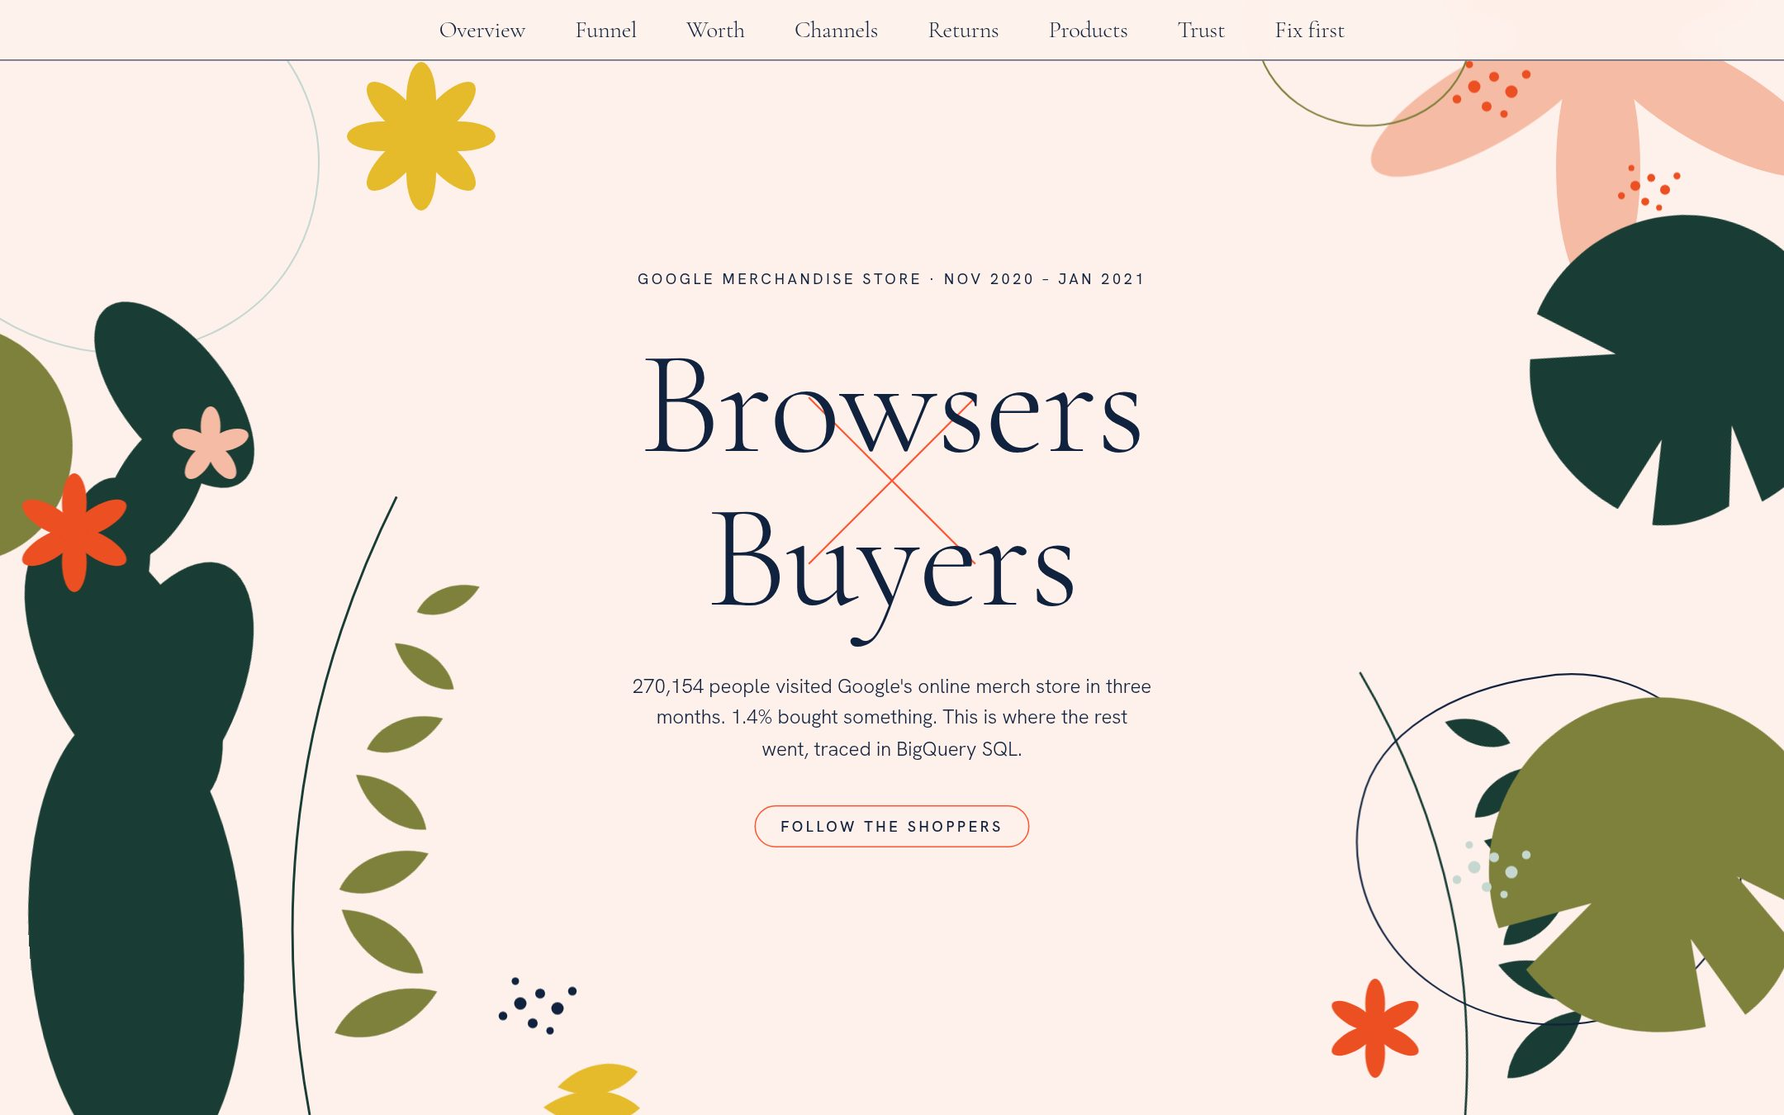
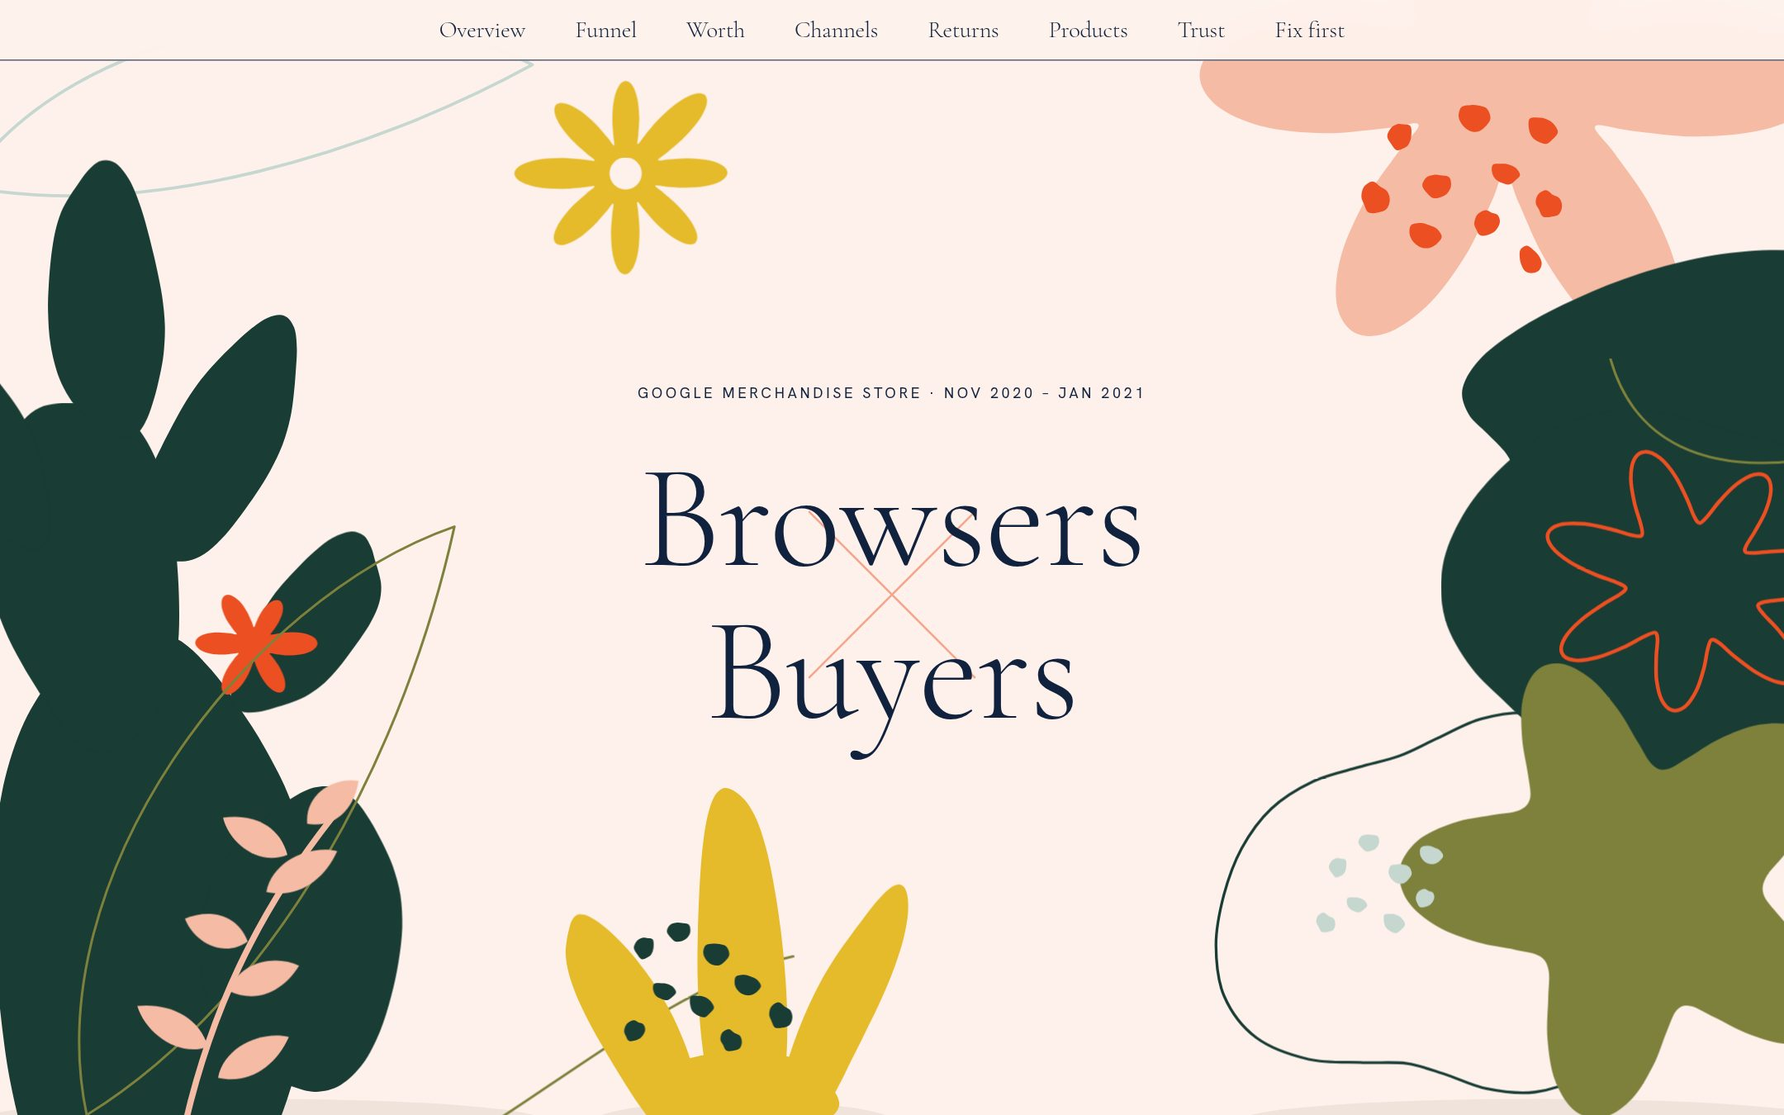
Redraw the hero garden with hand-cut shapes; simpler hero

diff --git a/app/components/Botanical.tsx b/app/components/Botanical.tsx
@@ -1,121 +1,101 @@
 /**
- * Flat, hand-cut botanical shapes in the illustration palette: cactus pads, leaves, star flowers,
- * dot clusters and thin outline blobs. Every number is fixed (no randomness), so the server and the
- * browser draw the same garden.
+ * Flat, hand-cut botanical shapes in the illustration palette. Outlines come from a small generator:
+ * points around an ellipse, nudged in and out by a few fixed sine waves (the "hand-cut" wobble),
+ * optionally carved into lobes or petals, then joined with smooth curves. Everything is fixed (no
+ * randomness), so the server and the browser draw the same garden.
  */
-const C = { forest: "#193c35", olive: "#7e813c", mustard: "#e5ba2b", ember: "#ec4f22", sage: "#c6d7d0", peach: "#f6bba4", ink: "#11223f" };
+const C = { forest: "#193c35", olive: "#7e813c", mustard: "#e5ba2b", ember: "#ec4f22", sage: "#c6d7d0", peach: "#f6bba4", ink: "#11223f", ground: "#efe3dc" };
 
-type P = { x: number; y: number; s?: number; r?: number; fill?: string; d?: number };
-const t = ({ x, y, s = 1, r = 0 }: P) => `translate(${x} ${y}) rotate(${r}) scale(${s})`;
+type Shape = { cx: number; cy: number; rx: number; ry: number; rot?: number; seed?: number; wob?: number; lobes?: number; lobeDepth?: number; petals?: number; n?: number };
 
-/** A long leaf pointing right from the origin. */
-const LEAF = "M0 0 C28 -26 78 -30 120 0 C78 30 28 26 0 0Z";
-/** An organic blob, about 200 x 180. */
-const BLOB = "M96 4 C150 -6 204 38 198 98 C192 160 132 190 78 176 C22 162 -6 112 6 66 C14 32 52 10 96 4Z";
-/** A notched, monstera-like leaf, about 220 x 220. */
-const NOTCHED = "M110 0 C170 0 220 50 220 110 C220 140 205 168 182 188 L150 140 L160 196 C145 210 128 218 110 220 L104 160 L84 214 C40 200 8 168 2 124 L60 108 L0 92 C10 40 56 0 110 0Z";
+const r1 = (v: number) => Math.round(v * 10) / 10;
 
-export function Leaf({ fill = C.peach, ...p }: P) {
-  return <path className="grow" d={LEAF} fill={fill} transform={t(p)} style={{ animationDelay: `${p.d ?? 0}s` }} />;
+/** A closed, smooth, slightly irregular outline (Catmull-Rom through the points, as cubic Béziers). */
+function outline({ cx, cy, rx, ry, rot = 0, seed = 1, wob = 0.08, lobes = 0, lobeDepth = 0, petals = 0, n }: Shape): string {
+  const count = n ?? Math.max(28, (lobes || petals) * 10);
+  const a = (rot * Math.PI) / 180;
+  const pts: [number, number][] = [];
+  for (let i = 0; i < count; i++) {
+    const th = (2 * Math.PI * i) / count;
+    let r = 1 + wob * (0.6 * Math.sin(2 * th + seed) + 0.4 * Math.sin(3 * th + seed * 1.7) + 0.25 * Math.sin(5 * th + seed * 2.3));
+    if (lobes) r *= 1 - lobeDepth * (0.5 - 0.5 * Math.cos(lobes * th + seed));            // notches between lobes
+    if (petals) r *= 0.32 + 0.68 * Math.pow(Math.abs(Math.cos((petals * th) / 2)), 1.6);   // long rounded petals
+    const x = rx * r * Math.cos(th), y = ry * r * Math.sin(th);
+    pts.push([cx + x * Math.cos(a) - y * Math.sin(a), cy + x * Math.sin(a) + y * Math.cos(a)]);
+  }
+  let d = `M${r1(pts[0][0])} ${r1(pts[0][1])}`;
+  for (let i = 0; i < count; i++) {
+    const p0 = pts[(i - 1 + count) % count], p1 = pts[i], p2 = pts[(i + 1) % count], p3 = pts[(i + 2) % count];
+    d += ` C${r1(p1[0] + (p2[0] - p0[0]) / 6)} ${r1(p1[1] + (p2[1] - p0[1]) / 6)} ${r1(p2[0] - (p3[0] - p1[0]) / 6)} ${r1(p2[1] - (p3[1] - p1[1]) / 6)} ${r1(p2[0])} ${r1(p2[1])}`;
+  }
+  return d + "Z";
 }
 
-/** A fan of leaves from one stem, like the peach sprigs at the reference's edges. */
-export function Sprig({ fill = C.peach, n = 5, spread = 70, len = 1, ...p }: P & { n?: number; spread?: number; len?: number }) {
-  return (
-    <g transform={t(p)}>
-      <path d={`M0 0 L${-140 * len} 0`} stroke={C.olive} strokeWidth={1.4} fill="none" />
-      {Array.from({ length: n }, (_, i) => (
-        <path key={i} className="grow" d={LEAF} fill={fill} style={{ animationDelay: `${(p.d ?? 0) + i * 0.06}s` }}
-          transform={`translate(${-i * 26 * len} 0) rotate(${-spread / 2 + (spread * i) / Math.max(1, n - 1) - 90}) scale(${0.55 + 0.1 * (i % 3)})`} />
-      ))}
-    </g>
-  );
+/** A leaf: pointed at both ends, from (x, y) along an angle. */
+function leaf(x: number, y: number, len: number, width: number, angle: number, bend = 0.15): string {
+  const a = (angle * Math.PI) / 180, ca = Math.cos(a), sa = Math.sin(a);
+  const P = (u: number, v: number) => `${r1(x + u * ca - v * sa)} ${r1(y + u * sa + v * ca)}`;
+  return `M${P(0, 0)} C${P(len * 0.25, -width * (0.7 + bend))} ${P(len * 0.75, -width * (0.55 + bend))} ${P(len, 0)} C${P(len * 0.7, width * (0.6 - bend))} ${P(len * 0.3, width * (0.75 - bend))} ${P(0, 0)}Z`;
 }
 
-/** An opuntia cactus: overlapping rounded pads. */
-export function Cactus({ fill = C.forest, ...p }: P) {
-  const pads: [number, number, number, number, number][] = [[0, 0, 64, 140, -4], [-58, -122, 46, 92, -28], [60, -114, 42, 84, 24], [-94, -222, 32, 66, -38], [16, -214, 28, 58, 10], [96, -196, 24, 50, 30]];
-  return (
-    <g transform={t(p)}>
-      {pads.map(([x, y, rx, ry, r], i) => (
-        <ellipse key={i} className="grow" cx={x} cy={y} rx={rx} ry={ry} fill={fill} transform={`rotate(${r} ${x} ${y})`} style={{ animationDelay: `${(p.d ?? 0) + i * 0.08}s` }} />
-      ))}
-    </g>
-  );
+function Fill({ d, fill, delay = 0 }: { d: string; fill: string; delay?: number }) {
+  return <path className="grow" d={d} fill={fill} style={{ animationDelay: `${delay}s` }} />;
+}
+function Line({ d, stroke, w = 2 }: { d: string; stroke: string; w?: number }) {
+  return <path d={d} fill="none" stroke={stroke} strokeWidth={w} strokeLinecap="round" strokeLinejoin="round" vectorEffect="non-scaling-stroke" />;
 }
 
-/** A curving stem with leaves on alternate sides. */
-export function Stem({ fill = C.olive, n = 6, len = 300, bend = 60, ...p }: P & { n?: number; len?: number; bend?: number }) {
-  return (
-    <g transform={t(p)}>
-      <path d={`M0 0 Q${bend} ${-len / 2} 0 ${-len}`} stroke={C.forest} strokeWidth={1.6} fill="none" />
-      {Array.from({ length: n }, (_, i) => {
-        const y = -len * (0.18 + (0.78 * i) / n), x = bend * 0.5 * Math.sin(Math.PI * (-y / len));
-        return <path key={i} className="grow" d={LEAF} fill={fill} style={{ animationDelay: `${(p.d ?? 0) + i * 0.07}s` }}
-          transform={`translate(${x.toFixed(1)} ${y.toFixed(1)}) rotate(${i % 2 ? -150 : -30}) scale(${(0.62 - i * 0.04).toFixed(2)})`} />;
-      })}
-    </g>
-  );
+/** Small irregular dots, as scattered on the reference's leaves. */
+function Dots({ at, fill, size = 9 }: { at: [number, number][]; fill: string; size?: number }) {
+  return <>{at.map(([x, y], i) => <path key={i} d={outline({ cx: x, cy: y, rx: size * (0.8 + 0.15 * (i % 3)), ry: size * (1.05 - 0.1 * (i % 2)), rot: i * 37, seed: i + 2, wob: 0.18, n: 10 })} fill={fill} />)}</>;
 }
 
-/** A star flower: rounded petals around a centre. */
-export function Flower({ fill = C.mustard, center, petals = 7, len = 34, wid = 13, ...p }: P & { center?: string; petals?: number; len?: number; wid?: number }) {
-  return (
-    <g className="grow" transform={t(p)} style={{ animationDelay: `${p.d ?? 0}s` }}>
-      {Array.from({ length: petals }, (_, i) => (
-        <ellipse key={i} cx={0} cy={-len} rx={wid} ry={len} fill={fill} transform={`rotate(${(360 / petals) * i})`} />
-      ))}
-      <circle r={len * 0.42} fill={center ?? fill} />
-    </g>
-  );
-}
-
-/** A cluster of dots, as on the reference's leaves. */
-export function Dots({ fill = C.ink, ...p }: P) {
-  const at: [number, number, number][] = [[0, 0, 5], [16, -8, 4], [30, 4, 5], [10, 16, 4], [-14, 10, 3.5], [24, 22, 3], [42, -10, 3.5], [-4, -18, 3]];
-  return (
-    <g transform={t(p)}>
-      {at.map(([x, y, r], i) => <circle key={i} cx={x} cy={y} r={r} fill={fill} />)}
-    </g>
-  );
-}
-
-export function Blob({ fill = C.olive, outline, ...p }: P & { outline?: boolean }) {
-  return <path className={outline ? undefined : "grow"} d={BLOB} transform={t(p)} fill={outline ? "none" : fill}
-    stroke={outline ? fill : undefined} strokeWidth={outline ? 1.4 / (p.s ?? 1) : undefined} style={{ animationDelay: `${p.d ?? 0}s` }} />;
-}
-
-export function Notched({ fill = C.forest, ...p }: P) {
-  return <path className="grow" d={NOTCHED} transform={t(p)} fill={fill} style={{ animationDelay: `${p.d ?? 0}s` }} />;
-}
-
-/** The hero's artwork, drawn in a 1440 x 900 space: a cluster bleeding off each side, the middle left clear. */
+/** The hero's artwork in a 1440 x 900 space: a cluster on each side, a plant growing up under the title, the middle left clear. */
 function GardenArt() {
   return (
     <>
-      {/* left: sage outline, olive stem behind a cactus, peach fan, mustard bloom */}
-      <Blob x={-80} y={-20} s={1.7} fill={C.sage} outline />
-      <Stem x={250} y={900} s={1.2} r={8} n={7} len={420} bend={-70} d={0.15} />
-      <Notched x={-150} y={250} s={0.9} r={40} fill={C.olive} d={0.05} />
-      <Cactus x={110} y={760} s={1.35} d={0.1} />
-      <Flower x={60} y={430} fill={C.ember} petals={6} len={24} wid={10} d={0.5} />
-      <Flower x={170} y={360} fill={C.peach} petals={5} len={16} wid={8} d={0.55} />
-      <Sprig x={330} y={960} r={-10} n={7} spread={90} len={1.2} d={0.3} />
-      <Flower x={340} y={110} fill={C.mustard} petals={8} len={30} wid={12} center={C.mustard} d={0.4} />
-      <Sprig x={470} y={930} r={-78} n={5} spread={46} len={0.9} fill={C.mustard} d={0.6} />
-      <Dots x={420} y={810} d={0.7} />
-      {/* right: peach star flower, dark notched leaf, olive leaf, navy outline */}
-      <Flower x={1290} y={30} fill={C.peach} petals={6} len={105} wid={34} center={C.peach} d={0.2} />
-      <Dots x={1190} y={70} fill={C.ember} />
-      <Dots x={1320} y={150} fill={C.ember} s={0.8} />
-      <Notched x={1250} y={190} s={1.15} r={12} d={0.3} />
-      <Stem x={1180} y={930} s={1.1} r={-12} n={6} len={360} bend={60} fill={C.forest} d={0.35} />
-      <Blob x={1090} y={540} s={1.6} fill={C.ink} outline />
-      <Notched x={1230} y={590} s={1.25} r={-30} fill={C.olive} d={0.4} />
-      <Dots x={1190} y={700} fill={C.sage} />
-      <Leaf x={1470} y={440} s={1.6} r={160} fill={C.peach} d={0.5} />
-      <Flower x={1110} y={830} fill={C.ember} petals={6} len={20} wid={8} d={0.6} />
-      <Blob x={1010} y={-60} s={0.9} fill={C.olive} outline />
+      {/* ground shadows */}
+      <ellipse cx={210} cy={905} rx={230} ry={18} fill={C.ground} />
+      <ellipse cx={600} cy={905} rx={120} ry={16} fill={C.ground} />
+      <ellipse cx={1240} cy={905} rx={240} ry={18} fill={C.ground} />
+
+      {/* LEFT: sage outline leaf behind, a knobbly cactus, peach sprig, olive outline leaf across */}
+      <Line d={leaf(-30, 150, 470, 120, -12, 0.25)} stroke={C.sage} w={2.5} />
+      <Fill d={outline({ cx: 120, cy: 760, rx: 125, ry: 260, seed: 1, wob: 0.07 })} fill={C.forest} />
+      <Fill d={outline({ cx: 70, cy: 460, rx: 72, ry: 150, rot: -10, seed: 2, wob: 0.1 })} fill={C.forest} delay={0.05} />
+      <Fill d={outline({ cx: 86, cy: 245, rx: 46, ry: 110, rot: -8, seed: 3, wob: 0.12 })} fill={C.forest} delay={0.1} />
+      <Fill d={outline({ cx: 178, cy: 360, rx: 46, ry: 104, rot: 26, seed: 4, wob: 0.12 })} fill={C.forest} delay={0.15} />
+      <Fill d={outline({ cx: 250, cy: 505, rx: 42, ry: 78, rot: 38, seed: 5, wob: 0.14 })} fill={C.forest} delay={0.2} />
+      <Fill d={outline({ cx: -15, cy: 360, rx: 42, ry: 86, rot: -24, seed: 6, wob: 0.12 })} fill={C.forest} delay={0.1} />
+      <Fill d={outline({ cx: 245, cy: 760, rx: 78, ry: 125, rot: 12, seed: 7, wob: 0.1 })} fill={C.forest} delay={0.25} />
+      <Fill d={outline({ cx: 205, cy: 520, rx: 46, ry: 46, petals: 6, seed: 1.3, wob: 0.12 })} fill={C.ember} delay={0.5} />
+      <Line d={leaf(70, 900, 560, 150, -58, 0.2)} stroke={C.olive} w={2} />
+      <Line d="M150 905 C170 820 205 740 268 660" stroke={C.peach} w={5} />
+      {([[168, 845, -150], [185, 800, -20], [200, 760, -160], [215, 720, -30], [232, 690, -150], [248, 665, -40], [176, 870, -30]] as const).map(([x, y, ang], i) => (
+        <Fill key={i} d={leaf(x, y, 66 - (i % 3) * 6, 26, ang, 0.05)} fill={C.peach} delay={0.35 + i * 0.05} />
+      ))}
+      <Fill d={outline({ cx: 505, cy: 140, rx: 82, ry: 82, petals: 8, seed: 2.2, wob: 0.1 })} fill={C.mustard} delay={0.4} />
+      <circle cx={505} cy={140} r={13} fill="#fef1ec" />
+
+      {/* CENTER: a mustard plant growing up beneath the title, with dark speckles and a curling stem */}
+      <Line d="M400 905 C470 860 560 790 640 772" stroke={C.olive} w={2} />
+      <Fill d={outline({ cx: 598, cy: 790, rx: 34, ry: 160, rot: -3, seed: 8, wob: 0.07 })} fill={C.mustard} delay={0.45} />
+      <Fill d={outline({ cx: 515, cy: 835, rx: 30, ry: 112, rot: -30, seed: 9, wob: 0.09 })} fill={C.mustard} delay={0.5} />
+      <Fill d={outline({ cx: 676, cy: 825, rx: 26, ry: 118, rot: 24, seed: 10, wob: 0.09 })} fill={C.mustard} delay={0.55} />
+      <Fill d={outline({ cx: 598, cy: 885, rx: 82, ry: 34, seed: 11, wob: 0.08 })} fill={C.mustard} delay={0.4} />
+      <Dots fill={C.forest} at={[[520, 765], [548, 752], [578, 770], [536, 800], [566, 812], [603, 795], [512, 832], [590, 840], [630, 820]]} />
+
+      {/* RIGHT: peach star flower spilling from the top, a dark hill with a coral outline flourish,
+          an olive lobed leaf, a navy outline blob with sage speckles */}
+      <Fill d={outline({ cx: 1215, cy: 60, rx: 250, ry: 250, petals: 6, seed: 0.4, wob: 0.06 })} fill={C.peach} delay={0.1} />
+      <Dots fill={C.ember} size={11} at={[[1130, 110], [1160, 150], [1190, 95], [1215, 140], [1245, 105], [1150, 190], [1200, 180], [1250, 165], [1110, 160], [1235, 210]]} />
+      <Fill d={outline({ cx: 1400, cy: 300, rx: 230, ry: 90, rot: -14, seed: 12, wob: 0.12 })} fill={C.forest} delay={0.2} />
+      <Fill d={outline({ cx: 1370, cy: 500, rx: 190, ry: 175, seed: 13, wob: 0.13 })} fill={C.forest} delay={0.25} />
+      <Line d={outline({ cx: 1365, cy: 470, rx: 120, ry: 110, lobes: 7, lobeDepth: 0.55, seed: 0.7, wob: 0.08 })} stroke={C.ember} w={3} />
+      <Line d="M1300 290 C1320 360 1380 380 1450 372" stroke={C.olive} w={2} />
+      <Line d={outline({ cx: 1180, cy: 735, rx: 175, ry: 160, rot: -8, seed: 14, wob: 0.18 })} stroke={C.forest} w={2.2} />
+      <Fill d={outline({ cx: 1320, cy: 715, rx: 175, ry: 200, rot: -28, lobes: 5, lobeDepth: 0.45, seed: 0.9, wob: 0.08 })} fill={C.olive} delay={0.35} />
+      <Dots fill={C.sage} size={8} at={[[1080, 700], [1105, 680], [1130, 705], [1095, 730], [1125, 745], [1155, 690], [1150, 725], [1070, 745]]} />
     </>
   );
 }
@@ -130,11 +110,24 @@ export function HeroGarden() {
       <svg aria-hidden className="pointer-events-none absolute inset-0 hidden h-full w-full sm:block" viewBox="0 0 1440 900" preserveAspectRatio="xMidYMid slice">
         <GardenArt />
       </svg>
-      <svg aria-hidden className="pointer-events-none absolute -bottom-[10px] -left-[24px] h-[32vh] w-[46vw] sm:hidden" viewBox="-60 420 420 500" preserveAspectRatio="xMinYMax meet">
-        <GardenArt />
+      <svg aria-hidden className="pointer-events-none absolute right-0 top-[48px] h-[220px] w-[250px] sm:hidden" viewBox="0 0 300 264">
+        <Fill d={outline({ cx: 255, cy: 0, rx: 130, ry: 130, petals: 6, seed: 0.4, wob: 0.06 })} fill={C.peach} />
+        <Dots fill={C.ember} size={7} at={[[200, 30], [222, 55], [245, 28], [262, 60], [212, 85], [240, 92], [190, 60]]} />
+        <Fill d={outline({ cx: 300, cy: 178, rx: 105, ry: 62, rot: -12, seed: 13, wob: 0.13 })} fill={C.forest} />
+        <Line d={outline({ cx: 285, cy: 180, rx: 48, ry: 40, lobes: 7, lobeDepth: 0.55, seed: 0.7, wob: 0.08 })} stroke={C.ember} w={2} />
       </svg>
-      <svg aria-hidden className="pointer-events-none absolute -right-[24px] top-[48px] h-[22vh] w-[44vw] sm:hidden" viewBox="1080 -40 400 420" preserveAspectRatio="xMaxYMin meet">
-        <GardenArt />
+      <svg aria-hidden className="pointer-events-none absolute bottom-0 left-0 h-[290px] w-[270px] sm:hidden" viewBox="0 0 300 330">
+        <Line d={leaf(14, 330, 280, 80, -62, 0.2)} stroke={C.olive} w={1.6} />
+        <Fill d={outline({ cx: 55, cy: 300, rx: 70, ry: 150, seed: 1, wob: 0.07 })} fill={C.forest} />
+        <Fill d={outline({ cx: 28, cy: 158, rx: 38, ry: 78, rot: -12, seed: 3, wob: 0.12 })} fill={C.forest} />
+        <Fill d={outline({ cx: 118, cy: 196, rx: 30, ry: 64, rot: 26, seed: 4, wob: 0.12 })} fill={C.forest} />
+        <Fill d={outline({ cx: 112, cy: 236, rx: 26, ry: 26, petals: 6, seed: 1.3, wob: 0.12 })} fill={C.ember} />
+        <Line d="M96 330 C110 290 135 250 170 214" stroke={C.peach} w={3.5} />
+        {([[104, 305, -150], [114, 282, -20], [126, 258, -160], [140, 240, -30], [154, 224, -150]] as const).map(([x, y, a], i) => <Fill key={i} d={leaf(x, y, 38, 15, a, 0.05)} fill={C.peach} />)}
+        <Fill d={outline({ cx: 252, cy: 300, rx: 17, ry: 70, rot: -4, seed: 8, wob: 0.07 })} fill={C.mustard} />
+        <Fill d={outline({ cx: 222, cy: 318, rx: 15, ry: 48, rot: -30, seed: 9, wob: 0.09 })} fill={C.mustard} />
+        <Fill d={outline({ cx: 280, cy: 316, rx: 13, ry: 50, rot: 24, seed: 10, wob: 0.09 })} fill={C.mustard} />
+        <Dots fill={C.forest} size={4.5} at={[[236, 300], [250, 290], [263, 305], [244, 318], [270, 322]]} />
       </svg>
     </>
   );
@@ -144,9 +137,22 @@ export function HeroGarden() {
 export function EdgeGarden({ side, variant = 0, className = "" }: { side: "left" | "right"; variant?: number; className?: string }) {
   const flip = side === "right" ? "scale(-1 1) translate(-320 0)" : undefined;
   const sets = [
-    <g key="a"><Notched x={-90} y={40} s={1.1} r={-20} /><Dots x={70} y={250} fill={C.peach} /><Blob x={-40} y={170} s={1.1} fill={C.sage} outline /></g>,
-    <g key="b"><Sprig x={150} y={320} r={-55} n={6} spread={70} len={1} fill={C.peach} /><Blob x={-60} y={20} s={0.9} fill={C.olive} outline /></g>,
-    <g key="c"><Leaf x={-40} y={150} s={1.6} r={-15} fill={C.mustard} /><Leaf x={-20} y={230} s={1.2} r={10} fill={C.olive} /><Dots x={90} y={120} /></g>,
+    <g key="a">
+      <Line d={outline({ cx: 70, cy: 190, rx: 110, ry: 100, seed: 3, wob: 0.18 })} stroke={C.sage} w={2} />
+      <Fill d={outline({ cx: 10, cy: 140, rx: 110, ry: 120, rot: -20, lobes: 5, lobeDepth: 0.45, seed: 1.1, wob: 0.08 })} fill={C.forest} />
+      <Dots fill={C.peach} size={7} at={[[120, 250], [140, 232], [150, 262], [128, 280]]} />
+    </g>,
+    <g key="b">
+      <Line d="M0 330 C60 290 120 230 170 150" stroke={C.peach} w={4} />
+      {([[30, 312, -160], [55, 292, -40], [85, 262, -170], [110, 232, -50], [135, 200, -165], [158, 170, -55]] as const).map(([x, y, a], i) => <Fill key={i} d={leaf(x, y, 60, 24, a, 0.05)} fill={C.peach} />)}
+      <Line d={leaf(-40, 120, 260, 70, -30, 0.2)} stroke={C.olive} w={2} />
+    </g>,
+    <g key="c">
+      <Fill d={outline({ cx: 20, cy: 180, rx: 34, ry: 140, rot: 14, seed: 4, wob: 0.08 })} fill={C.mustard} />
+      <Fill d={outline({ cx: 80, cy: 230, rx: 26, ry: 90, rot: 34, seed: 5, wob: 0.1 })} fill={C.mustard} />
+      <Dots fill={C.forest} size={6} at={[[18, 160], [36, 190], [14, 215], [70, 225], [86, 250]]} />
+      <Fill d={outline({ cx: 150, cy: 90, rx: 40, ry: 40, petals: 6, seed: 2, wob: 0.1 })} fill={C.ember} />
+    </g>,
   ];
   return (
     <svg aria-hidden className={`pointer-events-none absolute hidden h-[360px] w-[320px] sm:block ${side === "left" ? "-left-[40px]" : "-right-[40px]"} ${className}`} viewBox="0 0 320 360">

diff --git a/app/app/page.tsx b/app/app/page.tsx
@@ -89,27 +89,22 @@ export default function Home() {
         <section id="top" aria-label="Browsers and buyers" className="relative flex min-h-[100svh] items-center justify-center overflow-hidden px-16">
           <HeroGarden />
           <div className="relative text-center">
-            <p className="label">Google Merchandise Store · Nov 2020 – Jan 2021</p>
+            <p className="label text-[13px] tracking-[0.3em]">Google Merchandise Store · Nov 2020 – Jan 2021</p>
             <h1 className="display relative mt-40 text-[76px] leading-[0.85] sm:text-[120px]">
               <svg aria-hidden className="absolute left-1/2 top-1/2 h-[150px] w-[150px] -translate-x-1/2 -translate-y-1/2 sm:h-[210px] sm:w-[210px]" viewBox="0 0 100 100">
-                <path d="M18 18 L82 82 M82 18 L18 82" stroke="#ff5734" strokeWidth="0.7" />
+                <path d="M18 18 L82 82 M82 18 L18 82" stroke="#f6a58c" strokeWidth="0.8" />
               </svg>
               <span className="relative block">Browsers</span>
               <span className="sr-only"> and </span>
               <span className="relative mt-[0.18em] block">Buyers</span>
             </h1>
-            <p className="mx-auto mt-40 max-w-[420px] text-[16px] leading-[1.6]">
-              {fmt(all.users)} people visited Google&apos;s online merch store in three months. {pct(buyers / all.users)} bought something.
-              This is where the rest went, traced in BigQuery SQL.
-            </p>
-            <a href="#funnel" className="pill mt-32">Follow the shoppers</a>
           </div>
         </section>
 
         <Section id="story" label="The question" title="Window shopping, mostly"
           lede={<p>Google sells hoodies, mugs and stickers in its own online store, and it shares three months of that store&apos;s
-            Google Analytics data with anyone: every page view, every cart, every order, {fmt(all.events)} events in all. Most visitors
-            leave without buying. That is normal. The question is <em>where</em> they leave, which ones were worth keeping, and what the store
+            Google Analytics data with anyone: every page view, every cart, every order, {fmt(all.events)} events in all. {fmt(all.users)} people visited in those three months,
+            and {pct(buyers / all.users)} of them bought something. That is normal for a store. The question is <em>where</em> they leave, which ones were worth keeping, and what the store
             should fix first.</p>}>
           <div id="overview" className="scroll-mt-80 border border-coral-vermillion/70 p-12 sm:p-24">
             <div className="grid grid-cols-2 gap-4 lg:grid-cols-4">
